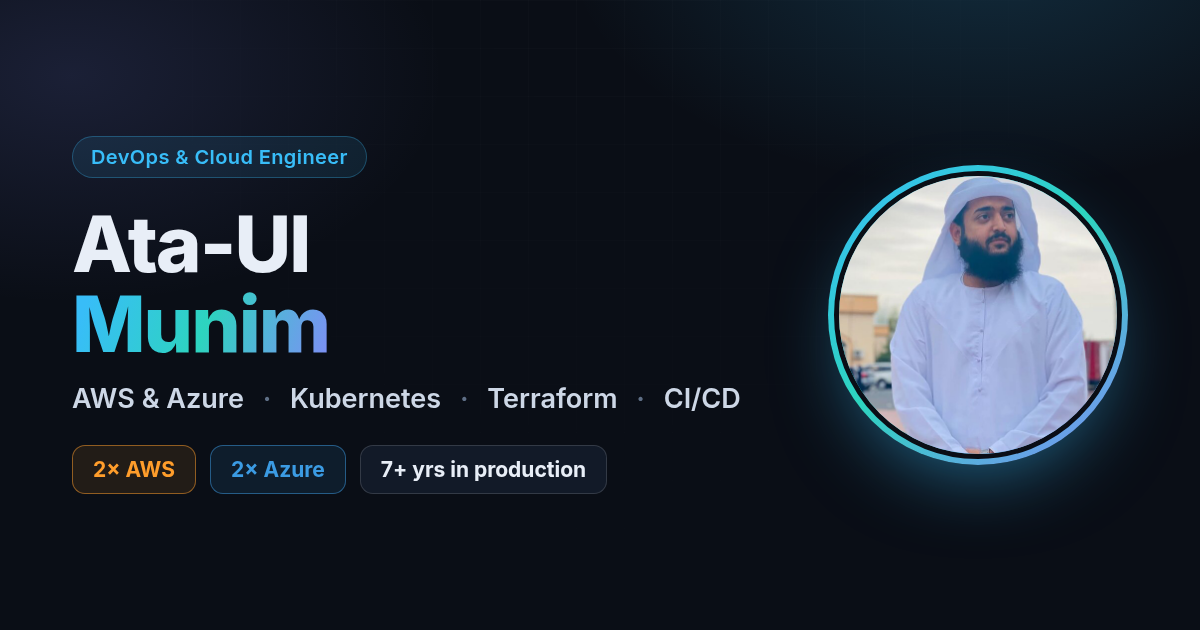
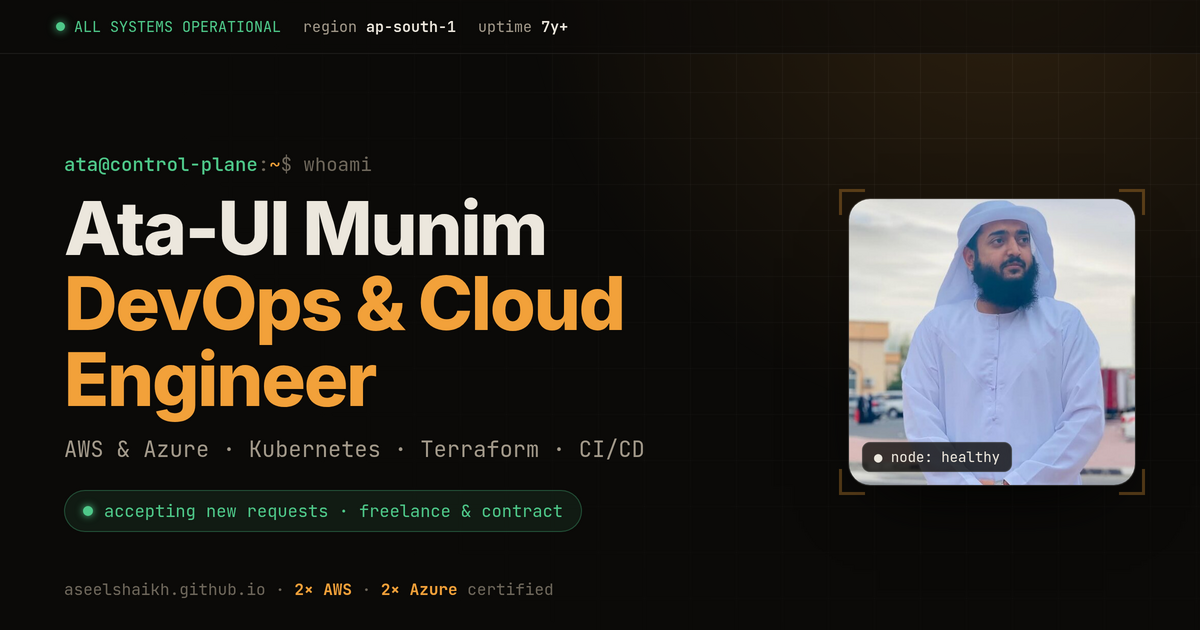
feat: add scroll progress bar, phone responsive tuning, refreshed OG card

diff --git a/index.html b/index.html
@@ -56,6 +56,11 @@
   :focus-visible{outline:2px solid var(--acc); outline-offset:3px; border-radius:6px}
   ::selection{background:rgba(242,161,58,.28); color:#fff}
 
+  /* scroll progress bar (top) */
+  .progress{position:fixed; top:0; left:0; height:3px; width:100%; transform:scaleX(0); transform-origin:0 50%;
+    background:linear-gradient(90deg,var(--acc),#ffd49a); z-index:60; pointer-events:none;
+    box-shadow:0 0 12px rgba(242,161,58,.55); will-change:transform}
+
   /* ===================== SIDEBAR RAIL ===================== */
   .rail{position:fixed; top:0; left:0; bottom:0; width:var(--rail); z-index:40;
     display:flex; flex-direction:column; gap:6px; padding:20px 16px;
@@ -276,6 +281,36 @@
     .main{margin-left:0}
     .inner,.sb-in,.foot-in{padding-left:22px; padding-right:22px}
   }
+  /* ===================== RESPONSIVE: phone tuning ===================== */
+  @media(max-width:620px){
+    section{padding:42px 0}
+    .overview{padding-top:26px}
+    .inner,.sb-in,.foot-in{padding-left:16px; padding-right:16px}
+    /* section headers must wrap, not overflow */
+    .sec-head{flex-wrap:wrap; gap:8px 12px; margin-bottom:22px}
+    .sec-head h2{white-space:normal}
+    .sec-head .rule{flex-basis:100%; order:5}
+    .sec-sub{margin-top:0}
+    h1.name{font-size:clamp(29px,8.5vw,46px); letter-spacing:-1px}
+    .role{font-size:14px}
+    .lead{font-size:15.5px; margin-top:16px}
+    .cta-row{gap:9px; margin-top:22px}
+    .ov-grid{gap:22px}
+    .metrics{gap:10px; margin-top:26px}
+    .tile{padding:15px 14px}
+    .tile .v{font-size:24px}
+    .flow{padding:20px 16px}
+    .flow-lead{font-size:13.5px; margin-bottom:18px}
+    .two{gap:14px}
+    .panel{padding:18px}
+    .stack-grid,.grid2,.grid3{gap:12px}
+    .contact{padding:30px 20px; border-radius:14px}
+    .foot-in{justify-content:center; text-align:center}
+  }
+  @media(max-width:380px){
+    h1.name{font-size:clamp(26px,8vw,40px)}
+    .metrics{grid-template-columns:1fr}
+  }
   @media(prefers-reduced-motion:reduce){
     *{animation:none!important; transition:none!important; scroll-behavior:auto!important}
     .reveal{opacity:1; transform:none}
@@ -283,6 +318,8 @@
 </style>
 </head>
 <body>
+
+<div class="progress" id="prog" aria-hidden="true"></div>
 
 <aside class="rail">
   <div class="node">
@@ -600,6 +637,20 @@
     clk.textContent = p(u.getHours())+':'+p(u.getMinutes())+':'+p(u.getSeconds());
   }
   tick(); setInterval(tick,1000);
+
+  /* scroll progress bar */
+  (function(){
+    var p = document.getElementById('prog'); if(!p) return;
+    function upd(){
+      var h = document.documentElement;
+      var max = h.scrollHeight - h.clientHeight;
+      var y = h.scrollTop || document.body.scrollTop;
+      p.style.transform = 'scaleX(' + (max > 0 ? y / max : 0) + ')';
+    }
+    window.addEventListener('scroll', upd, {passive:true});
+    window.addEventListener('resize', upd);
+    upd();
+  })();
 
   /* reveal on scroll */
   var reduce = window.matchMedia('(prefers-reduced-motion:reduce)').matches;
